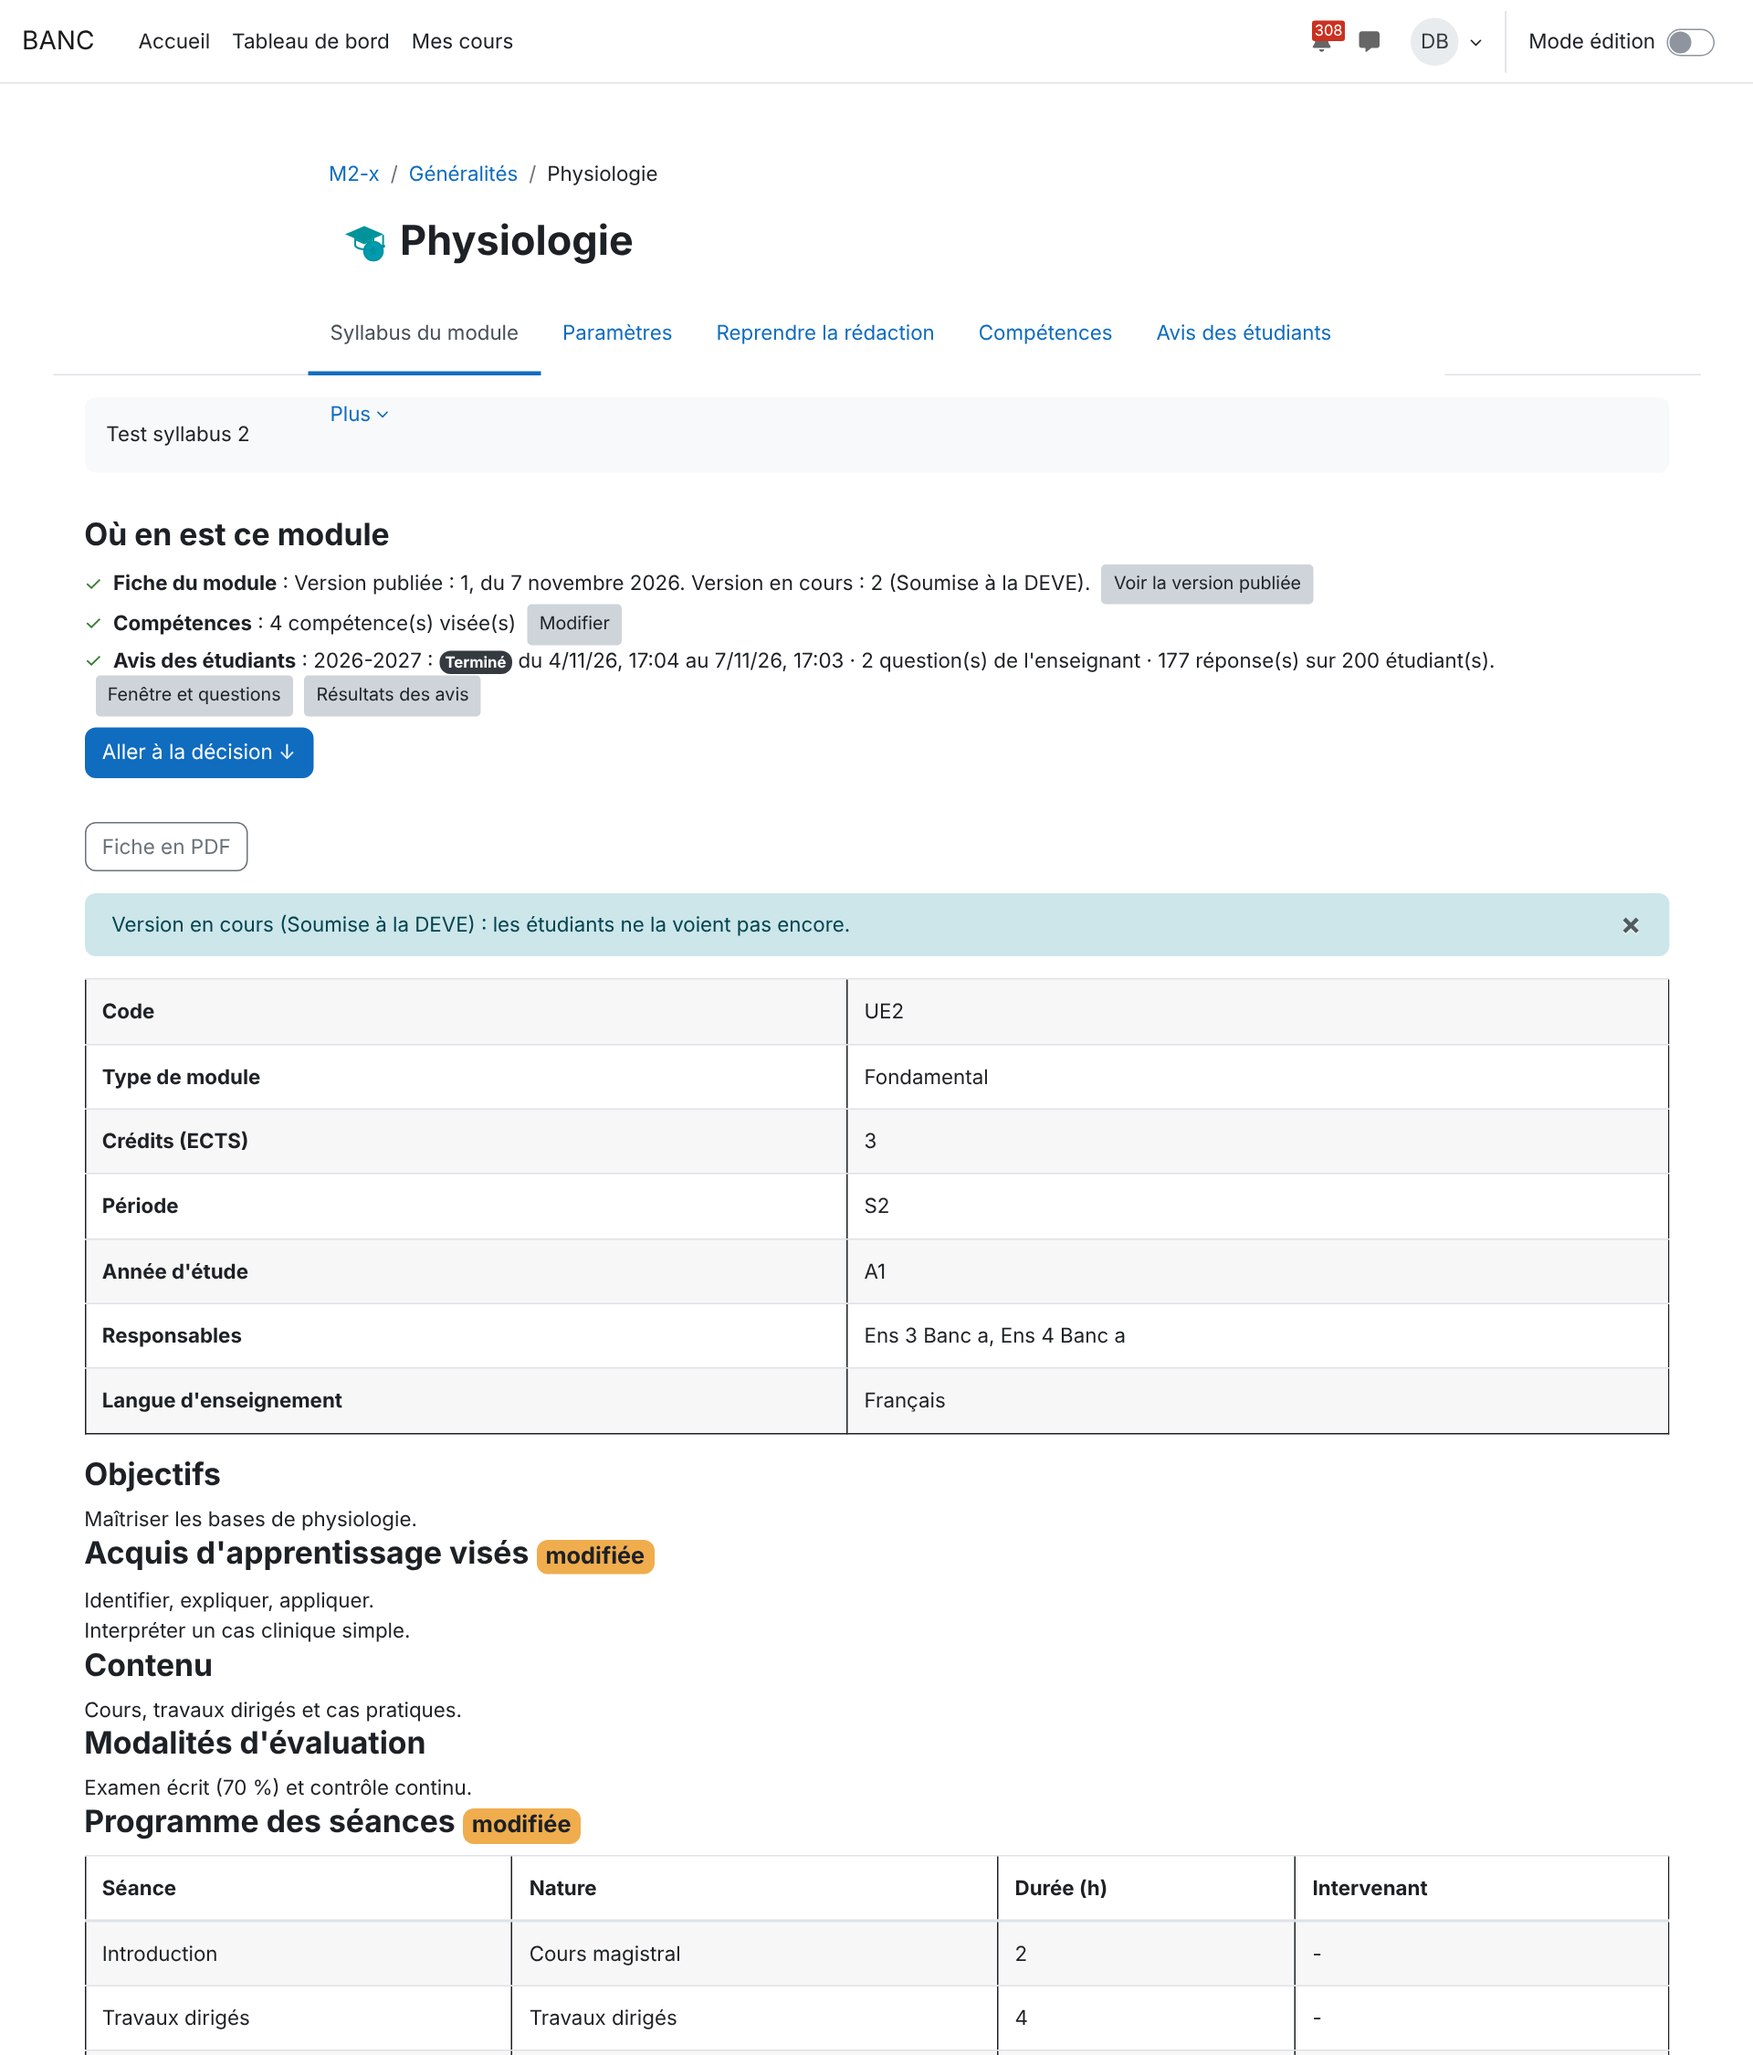
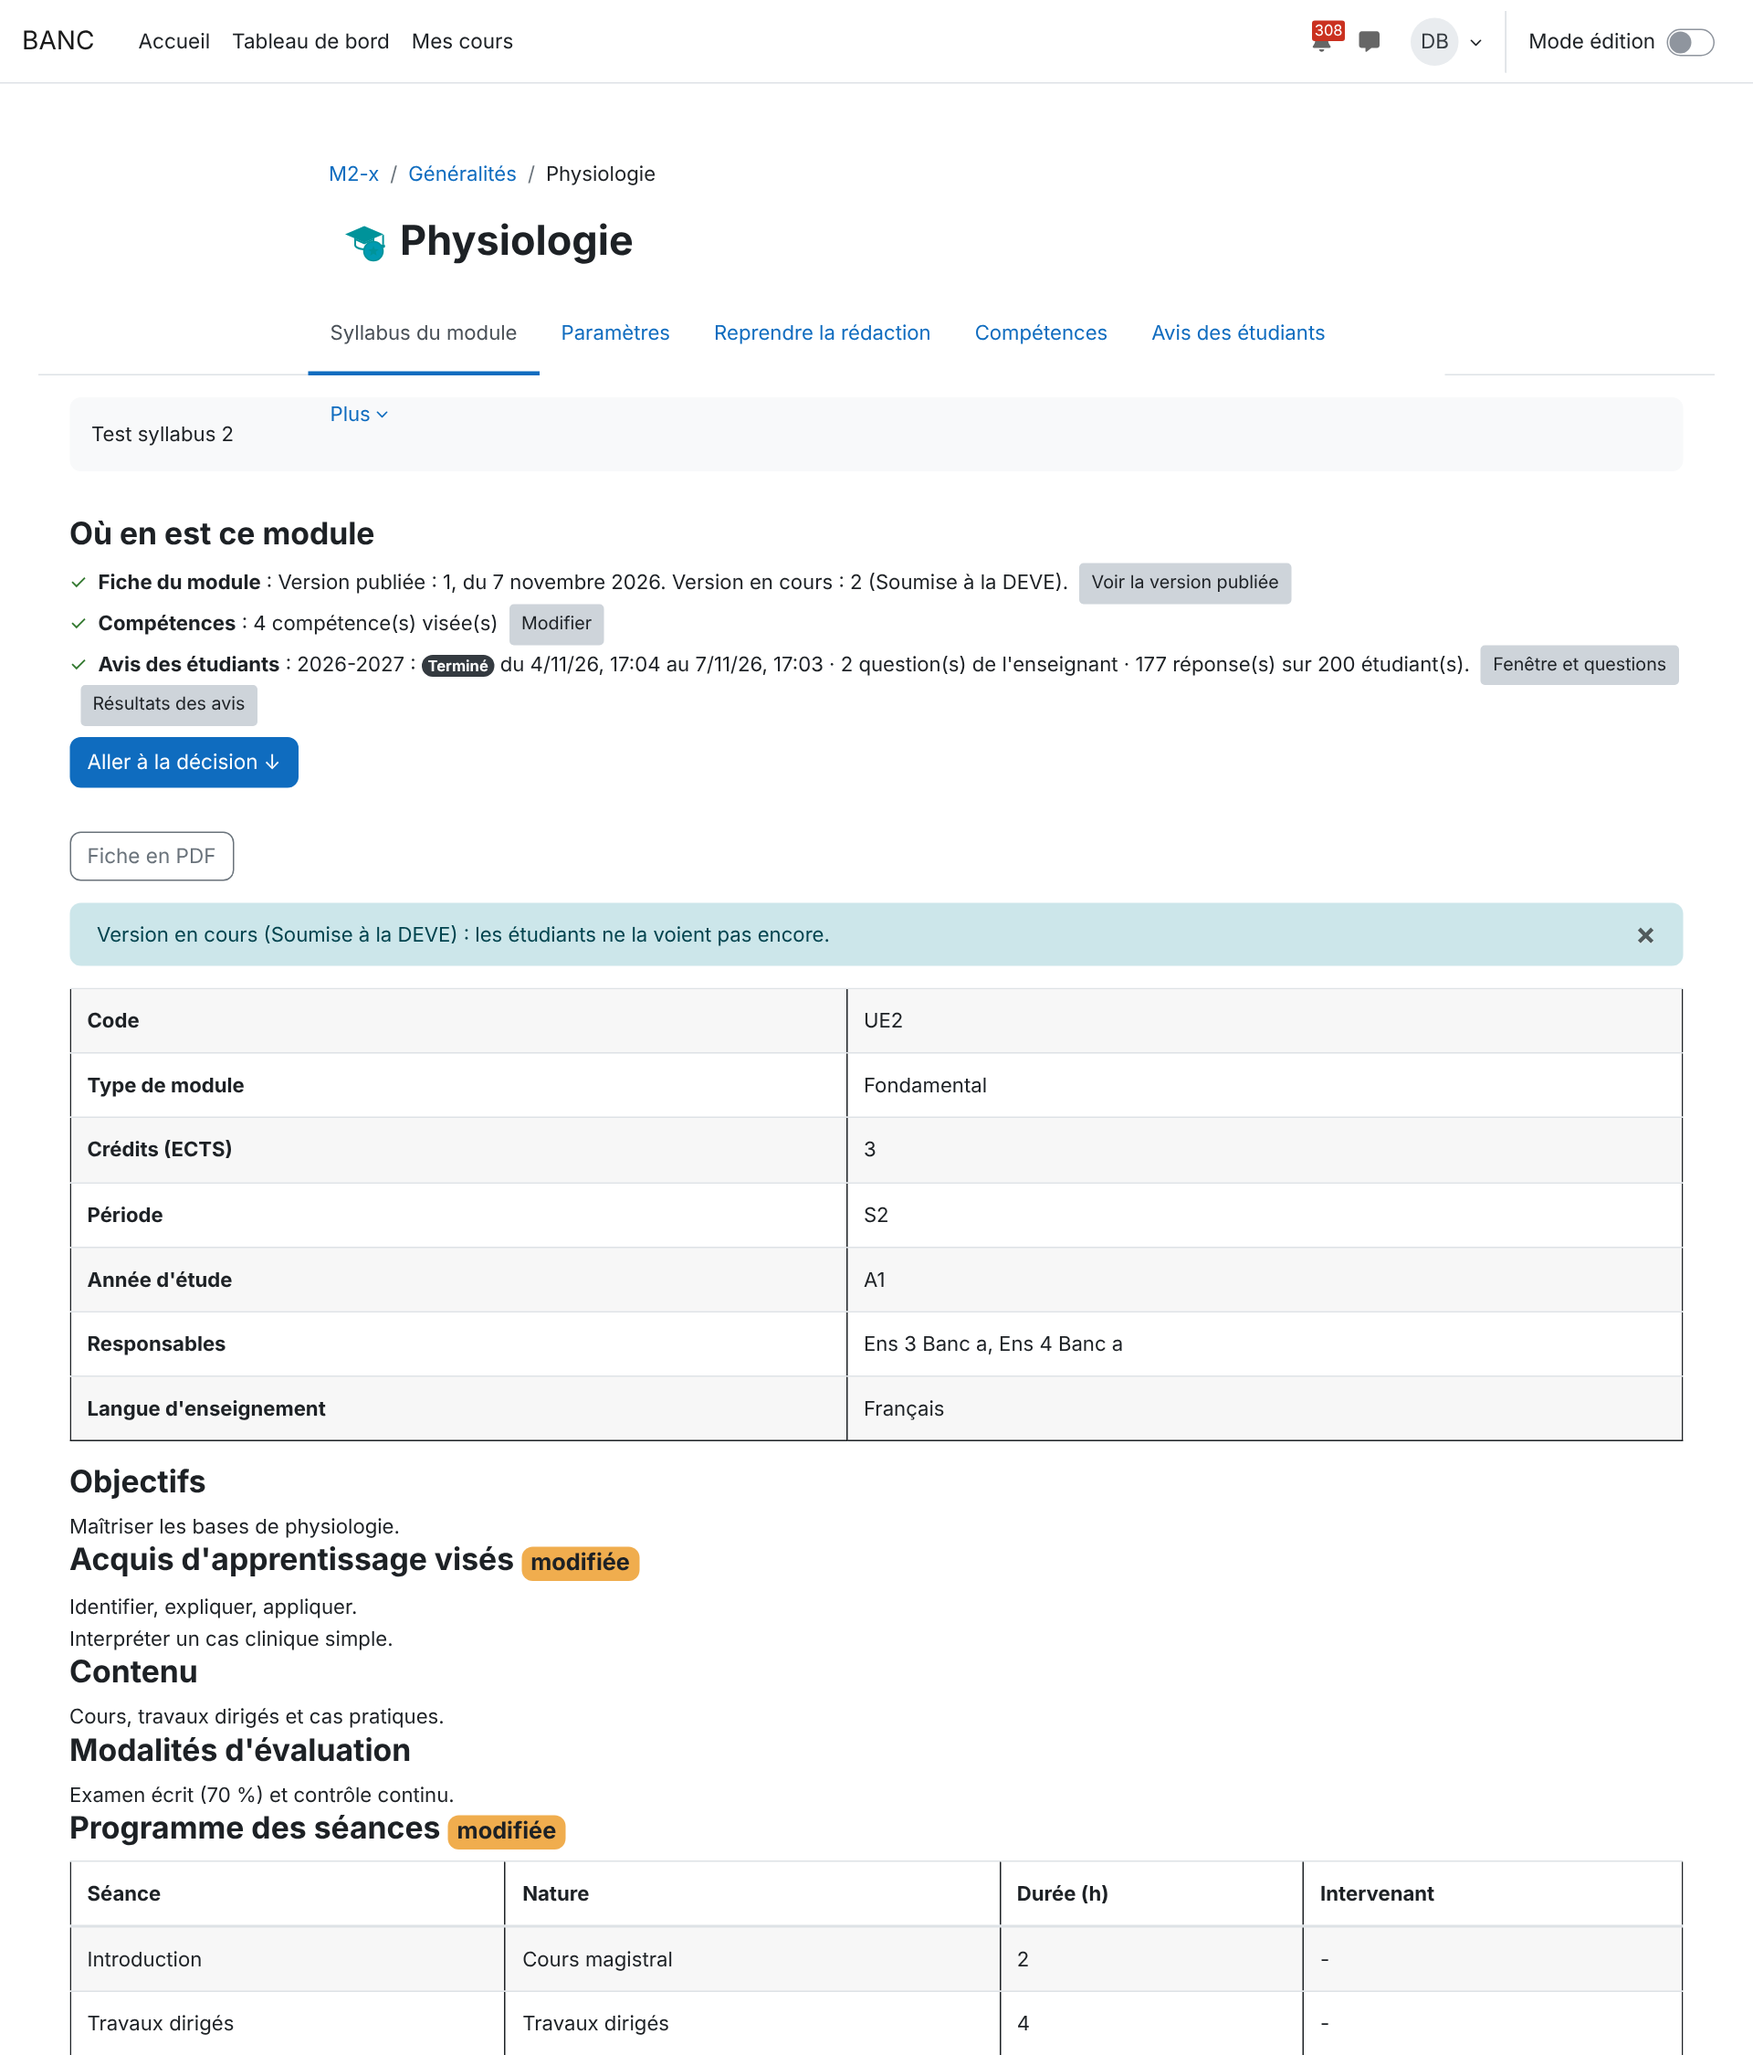
Banc : captures du guide syllabus reproductibles
- syllabus_captures.sh et syllabus_captures_prep.php : mise en scène (mise à jour de fiche
  soumise, recueil rouvert pour un étudiant qui n'a pas répondu), captures des trois rôles, puis
  remise en état ; documentés dans le README du banc et dans l'en-tête du guide.
- Suivi des modules : le fournisseur RGPD explique pourquoi les livrets conservés ne sont pas des
  données personnelles (copie des fiches publiées).

diff --git a/docs/audit/banc/syllabus_captures_prep.php b/docs/audit/banc/syllabus_captures_prep.php
@@ -1,0 +1,63 @@
+<?php
+// Mise en scène des captures du guide des modules syllabus, après le scénario de bout en bout
+// (syllabus_interactions.py) : une mise à jour de fiche soumise à la DEVE (relecture avec
+// rubriques modifiées), un étudiant qui n'a pas encore donné son avis sur le premier module, dont
+// le recueil est rouvert le temps des captures (dans la même année : rien n'est archivé).
+//
+// Usage : sudo -u www-data php syllabus_captures_prep.php site-x.json syllabus.json prepare
+//         sudo -u www-data php syllabus_captures_prep.php site-x.json syllabus.json restore <fermeture>
+// « prepare » écrit sur la sortie standard les variables d'environnement de captures.js :
+// SYREF (référentiel du scénario), SYCOMP (compétence la plus visée), SYEVAL (module à évaluer),
+// ETU (étudiant), SYCLOSE (fermeture d'origine, à repasser à « restore »).
+
+define('CLI_SCRIPT', true);
+require(getenv('MOODLE_CONFIG') ?: '/home/user/moodle-stress/moodle/config.php');
+require_once($CFG->dirroot . '/mod/syllabus/locallib.php');
+
+$site = json_decode(file_get_contents($argv[1]), true);
+$setup = json_decode(file_get_contents($argv[2]), true);
+$mode = $argv[3] ?? 'prepare';
+$first = $setup['modules'][0];
+$second = $setup['modules'][1];
+
+if ($mode === 'restore') {
+    $DB->set_field('syllabus', 'evalclose', (int) $argv[4], ['id' => $first['id']]);
+    echo "ok\n";
+    exit;
+}
+
+// Mise à jour de la fiche du deuxième module, soumise par son responsable.
+$cm = get_coursemodule_from_id('syllabus', $second['cmid'], 0, false, MUST_EXIST);
+$syllabus = $DB->get_record('syllabus', ['id' => $cm->instance], '*', MUST_EXIST);
+if (!$DB->record_exists('syllabus_version', ['syllabusid' => $syllabus->id, 'status' => SYLLABUS_STATUS_SUBMITTED])) {
+    $leader = current(syllabus_get_teachers((int) $syllabus->id));
+    \core\session\manager::set_user($leader);
+    $version = syllabus_start_working($syllabus, (int) $leader->id);
+    $sessions = array_map(fn($s) => (array) $s, array_values(syllabus_get_sessions((int) $version->id)));
+    $sessions[] = ['title' => 'Étude de cas', 'kind' => 'tutorial', 'duration' => 2, 'teacherid' => $leader->id];
+    syllabus_save_working($version, (object) ['outcomes' => trim($version->outcomes) . "\nInterpréter un cas clinique simple."],
+        $sessions, (int) $leader->id);
+    syllabus_submit($syllabus, $cm, $DB->get_record('syllabus_version', ['id' => $version->id]), (int) $leader->id);
+    \core\session\manager::set_user(get_admin());
+}
+
+// Recueil du premier module rouvert pour un étudiant qui n'a pas encore répondu cette année.
+$students = $DB->get_fieldset_sql("SELECT u.username
+                                 FROM {user} u
+                                 JOIN {user_enrolments} ue ON ue.userid = u.id
+                                 JOIN {enrol} e ON e.id = ue.enrolid
+                                 JOIN {syllabus} s ON s.course = e.courseid AND s.id = ?
+                                WHERE " . $DB->sql_like('u.username', '?') . "
+                                      AND NOT EXISTS (SELECT 1 FROM {syllabus_participant} p
+                                                       WHERE p.syllabusid = s.id AND p.userid = u.id)
+                             ORDER BY u.id", [$first['id'], 'etu' . $site['tag'] . '_%']);
+$student = reset($students);
+$close = (int) $DB->get_field('syllabus', 'evalclose', ['id' => $first['id']]);
+$DB->set_field('syllabus', 'evalclose', time() + DAYSECS, ['id' => $first['id']]);
+
+$ids = implode(',', array_map(fn($m) => (int) $m['id'], $setup['modules']));
+$ref = (int) $DB->get_field('syllabus_framework', 'id', ['idnumber' => 'REFVET']);
+$counts = $DB->get_records_sql_menu("SELECT compid, COUNT(1) FROM {syllabus_complink} WHERE syllabusid IN ($ids)
+                                      GROUP BY compid ORDER BY COUNT(1) DESC, compid");
+$comp = (int) array_key_first($counts);
+echo "SYREF=$ref SYCOMP=$comp SYEVAL={$first['cmid']} ETU=$student SYCLOSE=$close\n";

diff --git a/mod/syllabusstaff/classes/privacy/provider.php b/mod/syllabusstaff/classes/privacy/provider.php
@@ -17,7 +17,10 @@
 namespace mod_syllabusstaff\privacy;
 
 /**
- * Le suivi ne stocke aucune donnée personnelle : il montre celles de mod_syllabus.
+ * Le suivi ne stocke aucune donnée personnelle : il montre celles de mod_syllabus. Les livrets PDF
+ * qu'il garde (zone « booklet ») ne sont qu'une copie des fiches publiées, que voient tous les
+ * inscrits : les noms des responsables y figurent comme sur ces fiches, et chaque livret est
+ * refait dès qu'une fiche, un responsable ou une compétence change.
  *
  * @package   mod_syllabusstaff
  * @copyright 2026 Sébastien Lefebvre

diff --git a/docs/guides/guide-syllabus.tex b/docs/guides/guide-syllabus.tex
@@ -1,6 +1,6 @@
 % Guide des modules syllabus : mod_syllabus, mod_syllabusstaff, mod_syllabusstudent.
 % Compilation : latexmk -pdf guide-syllabus.tex
-% Captures : SYLLABUS=syllabus.json node captures.js site-x.json sy-... (voir captures.js).
+% Captures : bash ../audit/banc/syllabus_captures.sh site-x.json syllabus.json (après syllabus_interactions.py).
 \documentclass[11pt,a4paper]{article}
 
 \newcommand{\titreguide}{Syllabus et avis des étudiants}

diff --git a/docs/audit/banc/README.md b/docs/audit/banc/README.md
@@ -50,6 +50,9 @@ crédit, élément ni décision (minimum de 6 ECTS en 3e année), pour `interact
   pages web (référentiel DEVE, fiches, relecture, fenêtre en lot, tâche d'ouverture, 200
   étudiants qui évaluent, résultats), rapport `../test-syllabus.tex`. `syllabus_setup.php
   site-x.json reset` pour rejouer.
+- `syllabus_captures.sh site-x.json syllabus.json [nom ...]` (avec `syllabus_captures_prep.php`) : captures du
+  guide des modules syllabus après le scénario de bout en bout (mise à jour de fiche soumise à la
+  DEVE, recueil rouvert le temps des captures étudiantes, puis remis en état).
 - `syllabus_charge_setup.php`, `syllabus_pages.py`, `syllabus_stress.py`, `syllabus_ruee.py`,
   `syllabus_lourds.py`, `syllabus_profil.py` : modules syllabus à l'échelle d'une école (cinq
   années de douze modules, 1 000 étudiants), rapport `../test-syllabus-charge.tex`. Le jeu se
